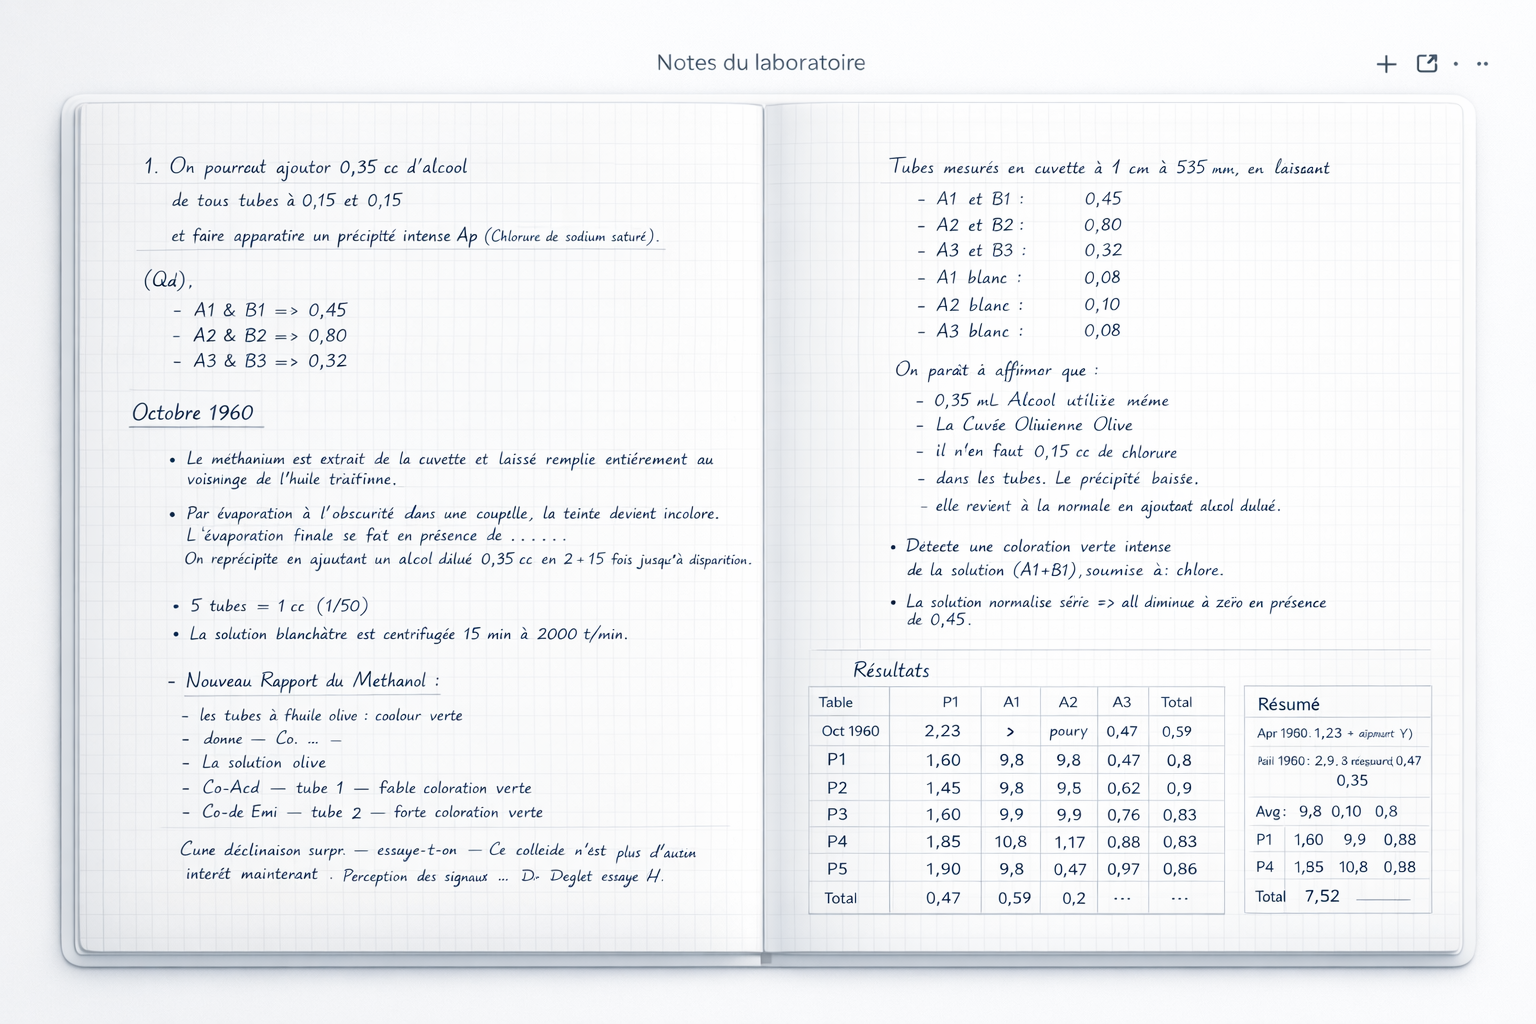
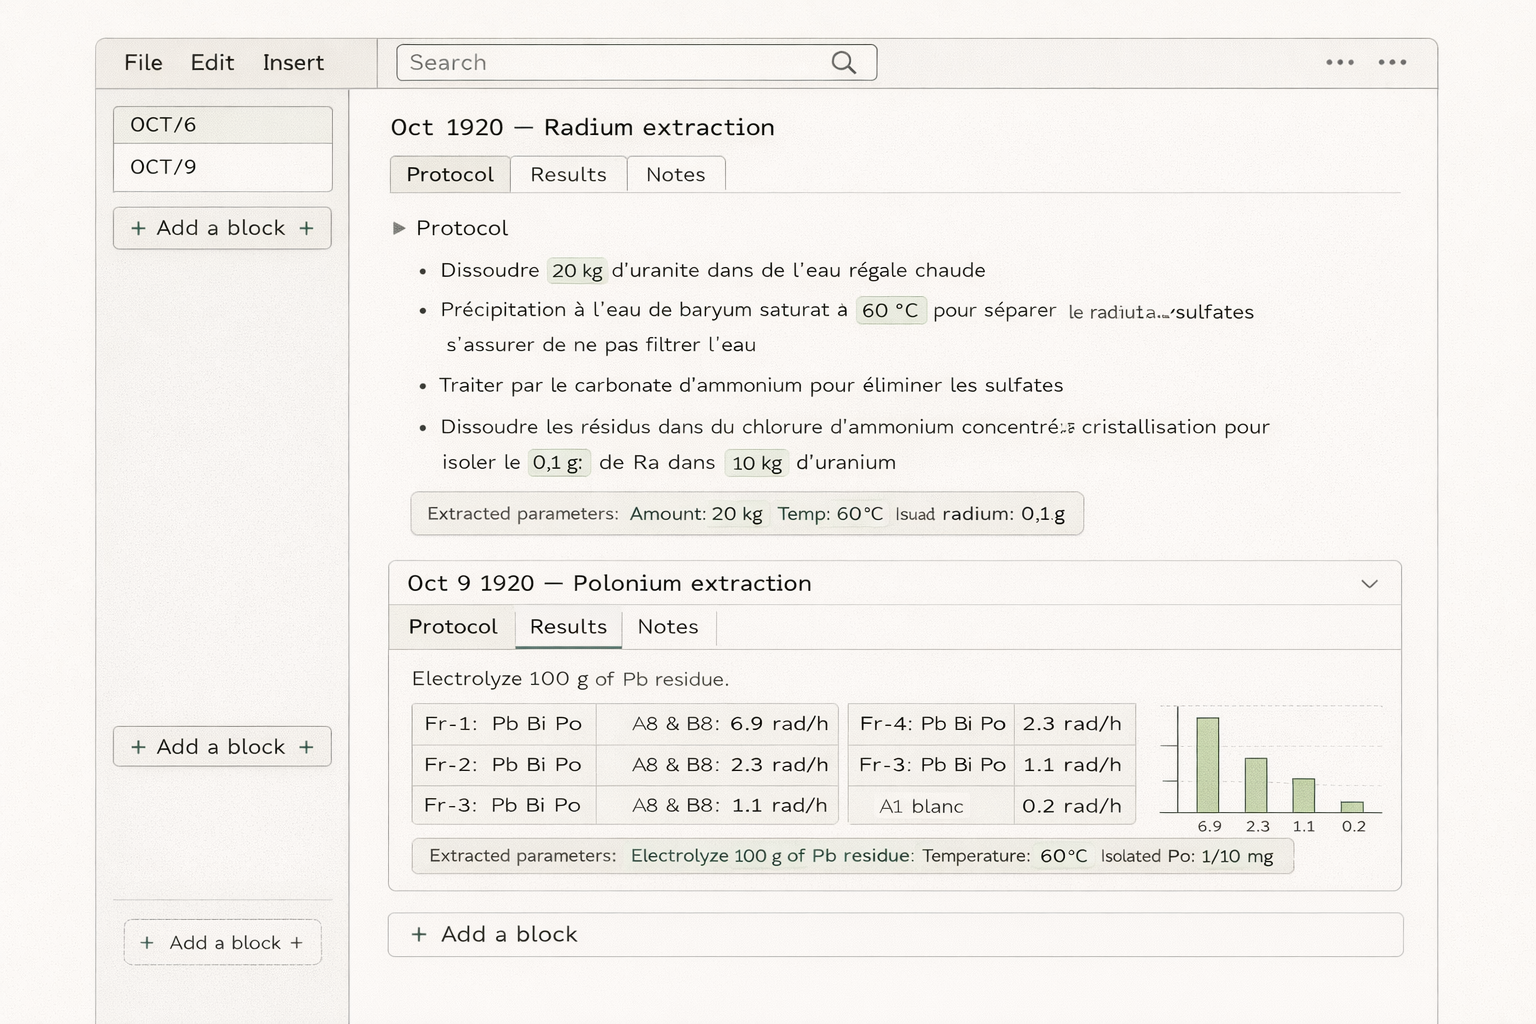
ocr maj

diff --git a/src/components/NotebookMorphDrag.tsx b/src/components/NotebookMorphDrag.tsx
@@ -36,6 +36,7 @@ export default function NotebookMorphDrag({
   const handleRef = useRef<HTMLDivElement>(null);
   const softEdgeRef = useRef<HTMLDivElement>(null);
   const initialRef = useRef(initial);
+  const hintPlayed = useRef(false);
 
   /** Mutates DOM directly — no setState, no re-render */
   const applyPosition = useCallback((pos: number) => {
@@ -118,6 +119,49 @@ export default function NotebookMorphDrag({
     };
   }, [applyPosition, getPos]);
 
+  // Hint animation: smooth wiggle when component first scrolls into view
+  useEffect(() => {
+    const container = containerRef.current;
+    if (!container) return;
+
+    const easeInOut = (t: number) =>
+      t < 0.5 ? 2 * t * t : -1 + (4 - 2 * t) * t;
+
+    const animateTo = (from: number, to: number, duration: number, onDone?: () => void) => {
+      const start = performance.now();
+      const step = (now: number) => {
+        const t = Math.min((now - start) / duration, 1);
+        applyPosition(from + (to - from) * easeInOut(t));
+        if (t < 1) requestAnimationFrame(step);
+        else onDone?.();
+      };
+      requestAnimationFrame(step);
+    };
+
+    const runHint = () => {
+      setTimeout(() => {
+        animateTo(0.5, 0.32, 500, () =>
+          animateTo(0.32, 0.68, 800, () =>
+            animateTo(0.68, 0.5, 500),
+          ),
+        );
+      }, 500);
+    };
+
+    const observer = new IntersectionObserver(
+      ([entry]) => {
+        if (entry.isIntersecting && !hintPlayed.current && !isDragging.current) {
+          hintPlayed.current = true;
+          runHint();
+        }
+      },
+      { threshold: 0.4 },
+    );
+
+    observer.observe(container);
+    return () => observer.disconnect();
+  }, [applyPosition]);
+
   const handleKeyDown = (e: KeyboardEvent<HTMLDivElement>) => {
     const step = e.shiftKey ? 0.1 : 0.02;
     if (e.key === "ArrowLeft") {
@@ -178,8 +222,8 @@ export default function NotebookMorphDrag({
           transform: "translateX(-50%)",
           width: "64px",
           background:
-            "linear-gradient(to right, rgba(255,255,255,0) 0%, rgba(255,255,255,0.22) 50%, rgba(255,255,255,0) 100%)",
-          filter: "blur(7px)",
+            "linear-gradient(to right, rgba(0,172,115,0) 0%, rgba(0,172,115,0.18) 50%, rgba(0,172,115,0) 100%)",
+          filter: "blur(8px)",
         }}
       />
 
@@ -198,45 +242,11 @@ export default function NotebookMorphDrag({
         <div
           className="absolute inset-0"
           style={{
-            background: "rgba(255,255,255,0.96)",
+            background: "rgba(0,210,140,0.95)",
             boxShadow:
-              "0 0 6px 1px rgba(255,255,255,0.8), 0 0 22px 5px rgba(255,255,255,0.22)",
+              "0 0 4px 2px rgba(0,210,140,0.9), 0 0 18px 8px rgba(0,172,115,0.55), 0 0 52px 18px rgba(0,172,115,0.22)",
           }}
         />
-
-        {/* Grab circle */}
-        <div
-          className="absolute top-1/2 left-1/2 -translate-x-1/2 -translate-y-1/2 flex items-center justify-center rounded-full bg-white"
-          style={{
-            width: 40,
-            height: 40,
-            boxShadow:
-              "0 2px 14px rgba(0,0,0,0.18), 0 0 0 1.5px rgba(0,0,0,0.07)",
-          }}
-        >
-          <svg
-            width="18"
-            height="18"
-            viewBox="0 0 18 18"
-            fill="none"
-            aria-hidden="true"
-          >
-            <path
-              d="M5.5 5L2 9L5.5 13"
-              stroke="#1a1a1a"
-              strokeWidth="1.6"
-              strokeLinecap="round"
-              strokeLinejoin="round"
-            />
-            <path
-              d="M12.5 5L16 9L12.5 13"
-              stroke="#1a1a1a"
-              strokeWidth="1.6"
-              strokeLinecap="round"
-              strokeLinejoin="round"
-            />
-          </svg>
-        </div>
       </div>
     </div>
   );

diff --git a/src/app/page.tsx b/src/app/page.tsx
@@ -1077,7 +1077,7 @@ export default function Home() {
               beforeAlt="Carnet numérique Sylvy"
               afterAlt="Notes manuscrites"
               initial={0.5}
-              aspectRatio="16/9"
+              aspectRatio="3/2"
             />
           </div>
           <div className="mx-auto w-full max-w-7xl px-4 py-6 sm:px-6">
